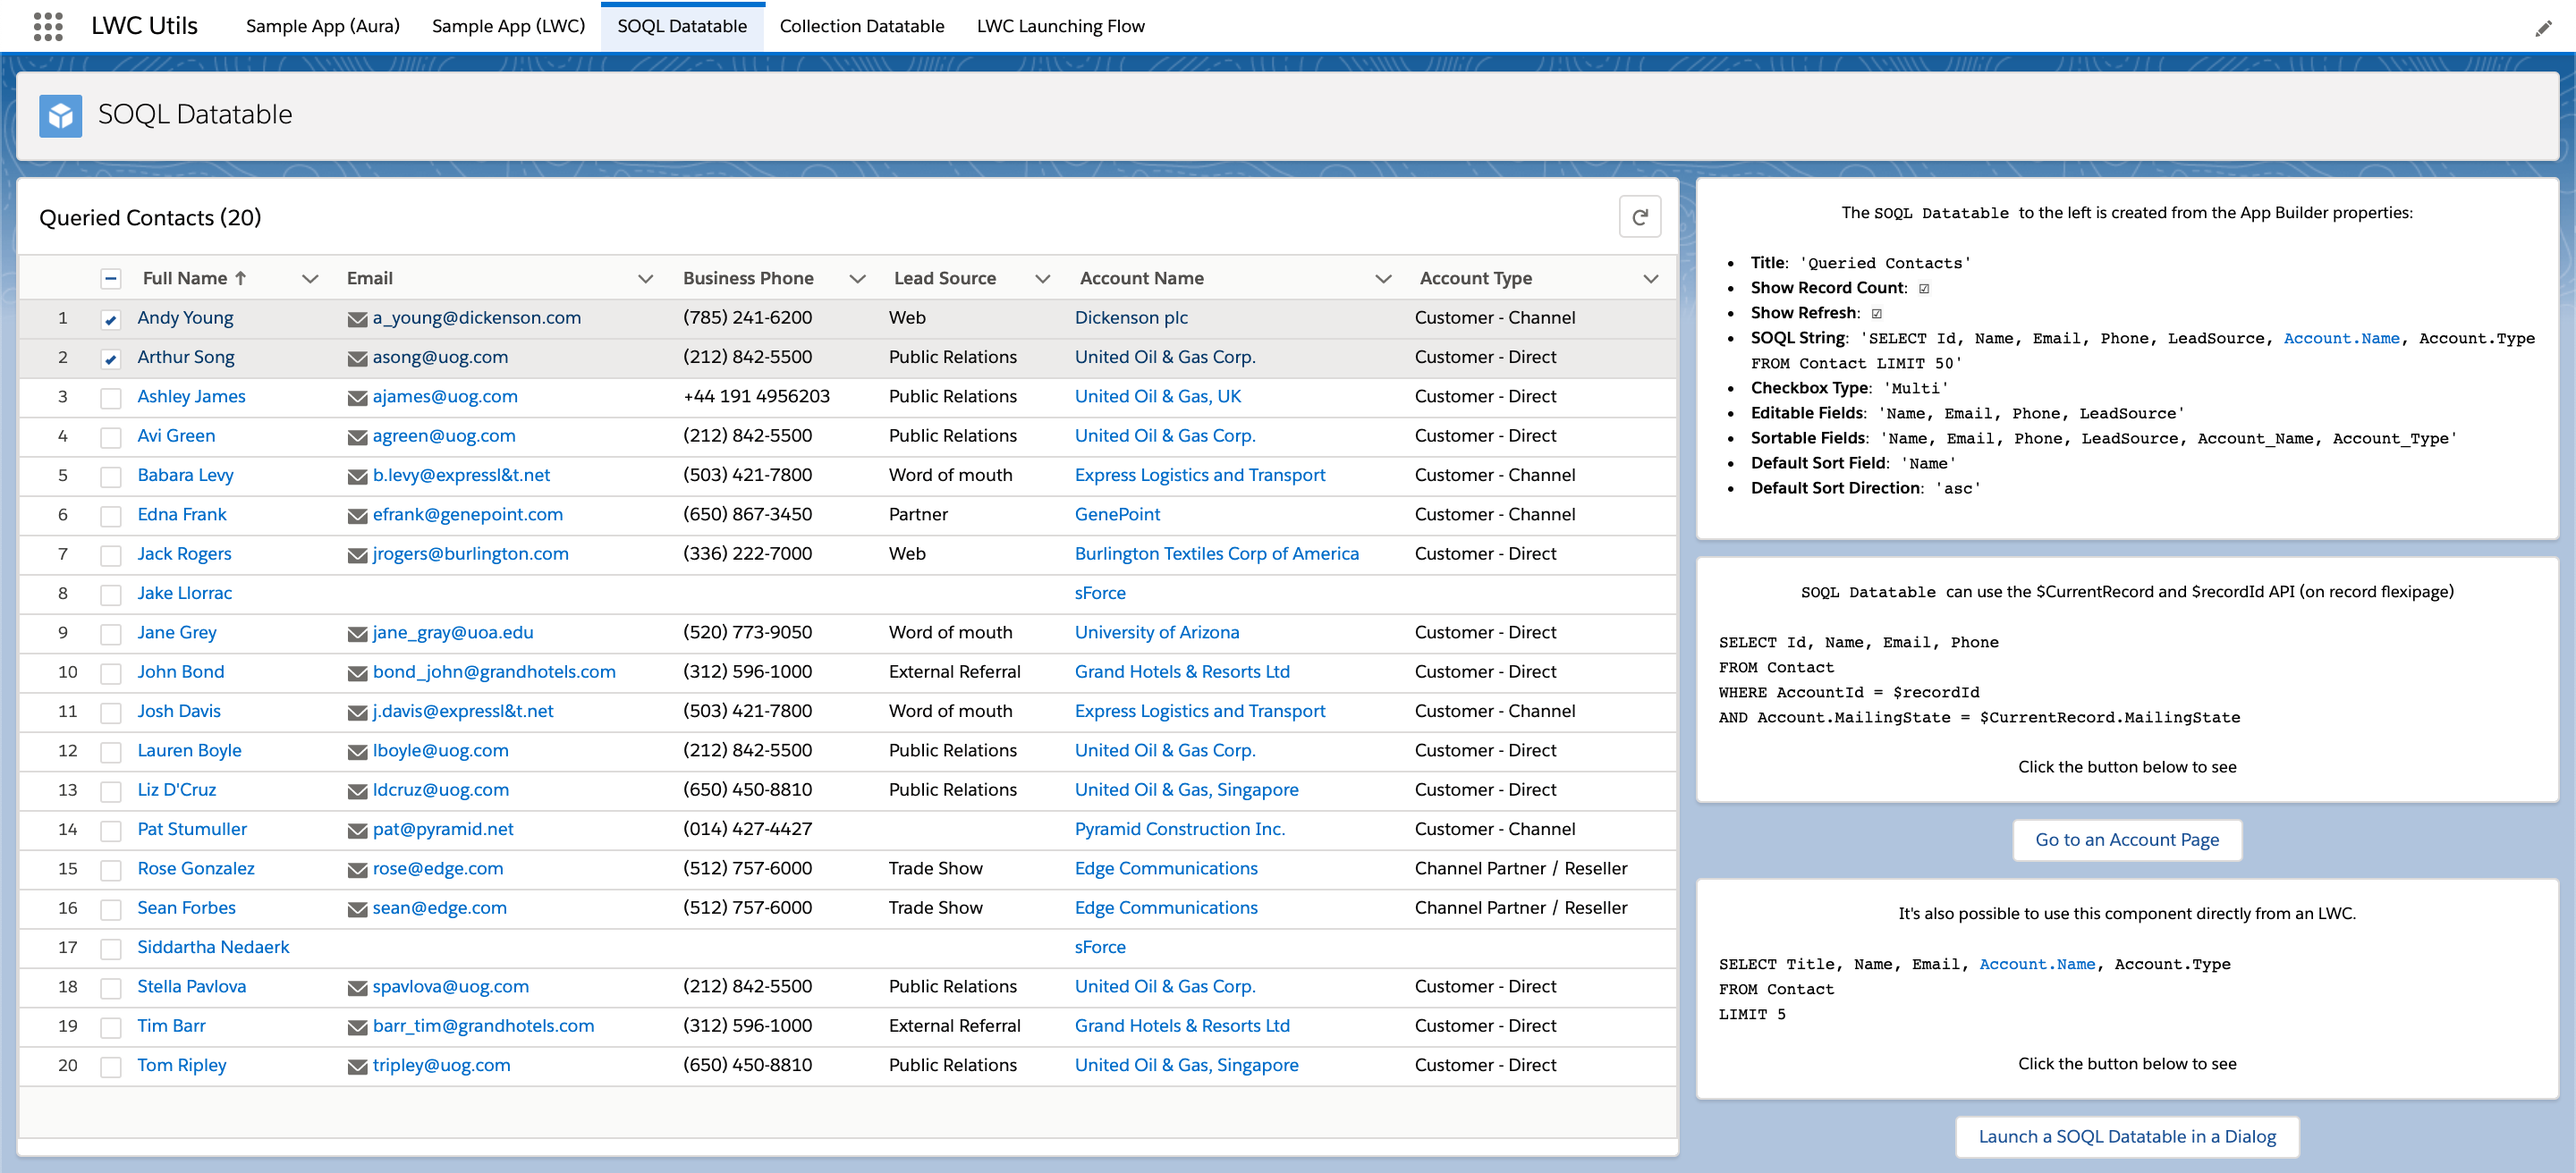
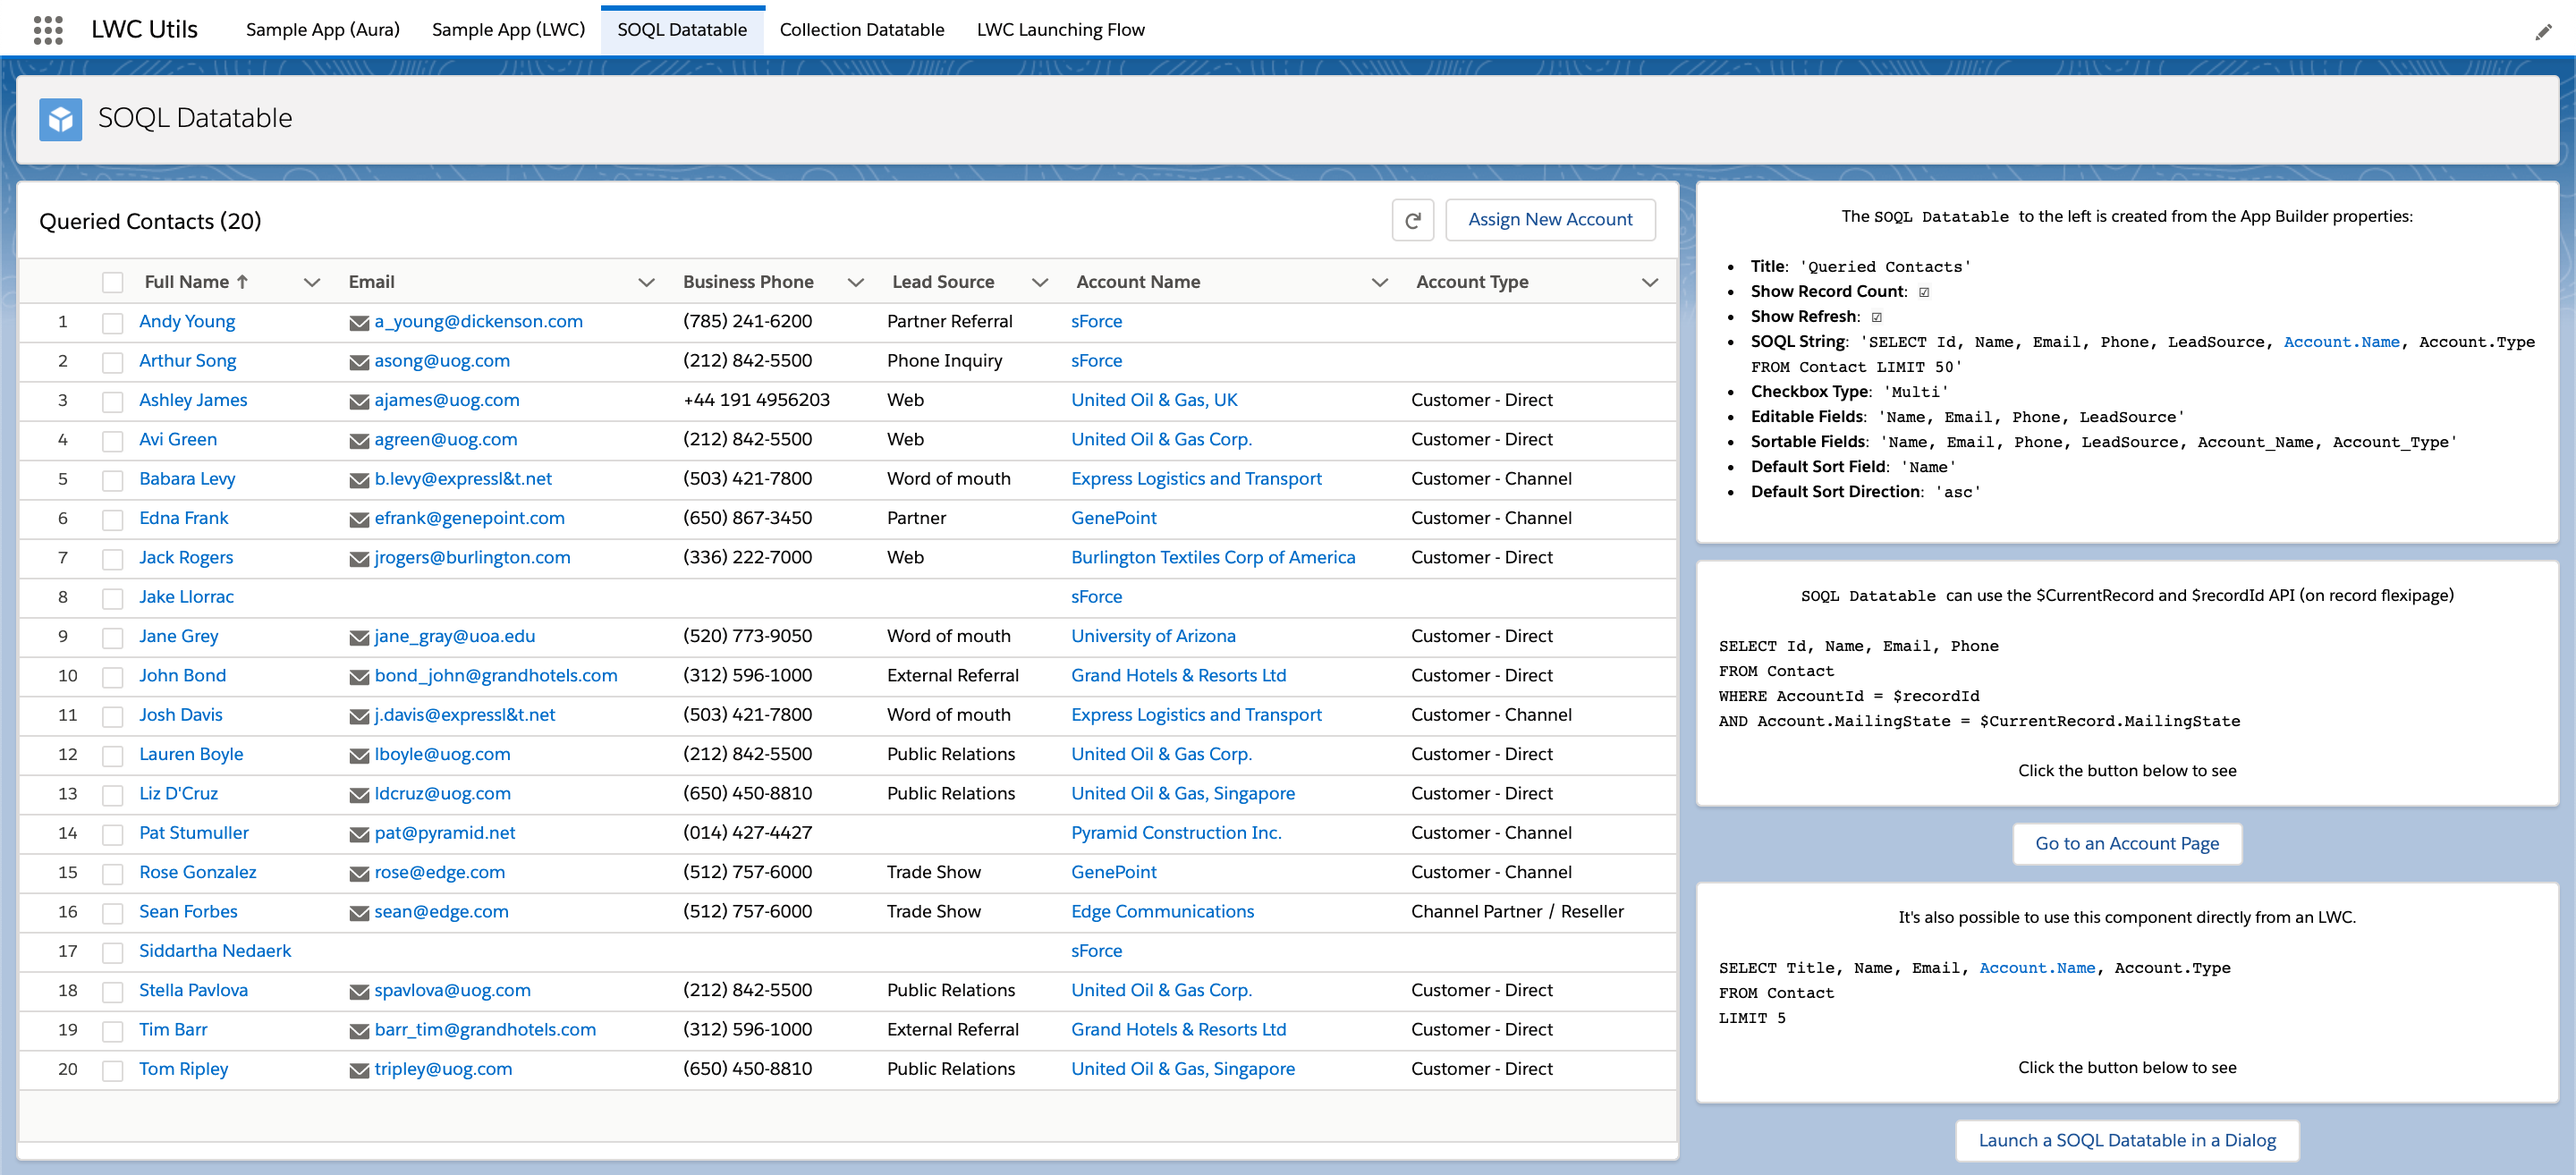
Update README

diff --git a/README.md b/README.md
@@ -41,15 +41,15 @@ git clone https://github.com/tsalb/lwc-utils
 
 | Component Name | Description | Component Type |
 |-|-|-|
-| `messageService`<br><br>[Example](#messageService)<br>[Spec](#messageService-Specification)<br>[Code](./force-app/main/default/lwc/messageService/messageService.js#L41) | Use one API to communicate **within** or **across** both Aura and LWC technologies.<br><br>Use this component instead of manually publishing / subscribing to `Lightning Message Service` (LMS).<br><br>Provides a psuedo-namespacing property called `boundary` which can separate subscribers by string, `recordId` etc.<br><br>Subscribers can choose to listen to any event by just enabling event handling like:<br><br>LWC: `<c-messageService onmycoolevent={handleCoolEvent}>`<br><br>Aura: `<c:messageService onmycoolevent="{! c.handleCoolEvent }">` | LWC:<br>`Service` |
-| `DialogService`<br><br>[Example](#DialogService)<br>[Spec](#DialogService-Specification)<br>[Code](./force-app/main/default/aura/DialogService) | Provides access to `lightning:overlayLibrary` to create dialogs (modals) via LMS.<br><br>Both Aura and LWCs can be created dynamically and injected as the dialog body.<br><br>Both Aura's public `attributes` and LWC's `@api` properties can be passed in. | Aura:<br>`Service` |
-| `MessageServiceHandler`<br><br>[Example](#MessageServiceHandler)<br>[Spec](#MessageServiceHandler-Specification)<br>[Code](./force-app/main/default/aura/MessageServiceHandler) | Utility bar (empty label) component wrapping `messageService`.<br><br>Provides universal access to `DialogService` by handling the `opendialog` LMS event. | Aura:<br>`Service`, `Utility Bar` |
+| `messageService`<br><br>[Example](#messageService)<br>[Code](./force-app/main/default/lwc/messageService/messageService.js#L41) | Use one API to communicate **within** or **across** both Aura and LWC technologies.<br><br>Use this component instead of manually publishing / subscribing to `Lightning Message Service` (LMS).<br><br>Provides a psuedo-namespacing property called `boundary` which can separate subscribers by string, `recordId` etc.<br><br>Subscribers can choose to listen to any event by just enabling event handling like:<br><br>LWC: ``<br><br>Aura: `` | LWC:<br>`Service` |
+| `DialogService`<br><br>[Example](#DialogService)<br>[Code](./force-app/main/default/aura/DialogService) | Provides access to `lightning:overlayLibrary` to create dialogs (modals) via LMS.<br><br>Both Aura and LWCs can be created dynamically and injected as the dialog body.<br><br>Both Aura's public `attributes` and LWC's `@api` properties can be passed in. | Aura:<br>`Service` |
+| `MessageServiceHandler`<br><br>[Example](#MessageServiceHandler)<br>[Code](./force-app/main/default/aura/MessageServiceHandler) | Utility bar (empty label) component wrapping `messageService`.<br><br>Provides universal access to `DialogService` by handling the `opendialog` LMS event. | Aura:<br>`Service`, `Utility Bar`, `Flexipage` |
 | `EventFooter`<br><br>[Code](./force-app/main/default/aura/EventFooter) | Dynamic footer for lwc dialogs.<br><br>Contains an instance of `messageService` listening for the `closedialog` LMS Event.<br><br>Unfortunately, `component.getReference()` does not work on LWCs. Write your own action button in the dialog body. | Aura:<br>`UI` |
 | `ModalFooter`<br><br>[Code](./force-app/main/default/aura/ModalFooter) | Dynamic footer for aura dialogs.<br><br>Connects a primary action on the target dialog body to the footer's main action via `component.getReference()`<br><br>Enables writing functions directly on the dialog body and `DialogService.modal()` will connect it to a primary action. | Aura:<br>`UI` |
-| `FlowWrapper`<br><br>[Example](#FlowWrapper)<br>[Spec](#FlowWrapper-Specification)<br>[Code](./force-app/main/default/aura/FlowWrapper) | Enables `messageService` to create flows inside a dialog body dynamically.<br><br>Can be used with `dialogAutoCloser` (LWC flow component) to automatically close a dialog launched by this component.<br><br>See [`flowWizardLauncherExample`](./force-app/main/default/lwc/flowWizardLauncherExample/flowWizardLauncherExample.js#L19) | Aura:<br>`Service` |
-| `dialogAutoCloser`<br><br>[Example](#dialogAutoCloser)<br>[Spec](#dialogAutoCloser-Specification)<br>[Code](./force-app/main/default/lwc/dialogAutoCloser) | Contains a progress bar and timer message before automatically closing a `DialogService` dialog with the `closerfooter` LMS event | LWC:<br>`Service`, `Flow` |
-| `soqlDatatable`<br><br>[Example](#soqlDatatable)<br>[Spec](#soqlDatatable-Specification)<br>[Code](./force-app/main/default/lwc/soqlDatatable) | // TODO | LWC:<br>`UI`, `App`, `Record`, `Flow` |
-| `collectionDatatable`<br><br>[Example](#collectionDatatable)<br>[Spec](#collectionDatatable-Specification)<br>[Code](./force-app/main/default/lwc/collectionDatatable) | // TODO | LWC:<br>`UI`, `Flow` |
+| `FlowWrapper`<br><br>[Example](#FlowWrapper)<br>[Code](./force-app/main/default/aura/FlowWrapper) | Enables `messageService` to create flows inside a dialog body dynamically.<br><br>Can be used with `dialogAutoCloser` (LWC flow component) to automatically close a dialog launched by this component.<br><br>See [`flowWizardLauncherExample`](./force-app/main/default/lwc/flowWizardLauncherExample/flowWizardLauncherExample.js#L19) | Aura:<br>`Service` |
+| `dialogAutoCloser`<br><br>[Example](#dialogAutoCloser)<br>[Code](./force-app/main/default/lwc/dialogAutoCloser) | Contains a progress bar and timer message before automatically closing a `DialogService` dialog with the `closerfooter` LMS event | LWC:<br>`Service`, `Flow` |
+| `soqlDatatable`<br><br>[Example](#soqlDatatable)<br>[Code](./force-app/main/default/lwc/soqlDatatable) | // TODO | LWC:<br>`UI`, `App`, `Record`, `Flow` |
+| `collectionDatatable`<br><br>[Example](#collectionDatatable)<br>[Code](./force-app/main/default/lwc/collectionDatatable) | // TODO | LWC:<br>`UI`, `Flow` |
 
 ## messageService
 
@@ -127,7 +127,9 @@ const dialogServicePayload = {
 this._messageService.dialogService(dialogServicePayload);
 ```
 
-#### messageService Specification
+<details>
+    <summary>messageService Specification</summary>
+
 
 **Attributes**
 
@@ -147,6 +149,7 @@ this._messageService.dialogService(dialogServicePayload);
 | notifySuccess | (`title`, `message` = null) | Convenience function for `ShowToastEvent` |
 | notifyInfo | (`title`, `message` = null) | Convenience function for `ShowToastEvent` |
 | notifySingleError | (`title`, `error` = '') | Convenience function for `ShowToastEvent`.<br>`error` object can be passed directly in, it will be reduced/parsed by `c-utils.reduceError`. |
+</details>
 
 ## DialogService
 
@@ -156,7 +159,9 @@ Primarily used by `messageService` for message publishing, `MessageServiceHandle
 
 It is not recommended to use this component directly.
 
-#### DialogService Specification
+<details>
+    <summary>DialogService Specification</summary>
+
 
 **Attributes**
 
@@ -177,6 +182,7 @@ For that reason, it is recommended to use `messageService` / `MessageServiceHand
 | modalLarge | (<br>  `auraId`,<br>  `headerLabel`,<br>  `body`,<br>  `bodyParams`,<br>  `mainActionReference`,<br>  `mainActionLabel`,<br>  `callback`,<br>  `isLargeModal = true`<br>) | Compatible with Aura dialog bodies.<br><br>Same as `modal`, with wider dialog box using `slds-modal_large` |
 | bodyModal | (<br>  `auraId`,<br>  `headerLabel`,<br>  `body`,<br>  `bodyParams`,<br>  `callback`<br>) | Compatible with LWC dialog bodies.<br><br>Same as `modal` except without connectivity to a `mainAction` via `component.getReference` which doesn't work on LWCs, even with `@api` functions.<br><br>Instead, a slim footer called `EventFooter` is created which is subscribing to the `dialogclose` event for closing the dialog.<br><br>Write your own `Cancel` and `Primary Action` button on the dialog body that is dynamically being created. |
 | bodyModalLarge | (<br>  `auraId`,<br>  `headerLabel`,<br>  `body`,<br>  `bodyParams`,<br>  `callback`,<br>  `isLargeModal = true`<br>) | Compatible with LWC dialog bodies.<br><br>Same as `bodyModal`, with wider dialog box using `slds-modal_large` |
+</details>
 
 ## MessageServiceHandler
 
@@ -206,7 +212,9 @@ This component is very simple which just listens and delegates to `DialogService
 </aura:component>
 ```
 
-#### MessageServiceHandler Specification
+<details>
+    <summary>MessageServiceHandler Specification</summary>
+
 
 **Attributes**
 
@@ -215,6 +223,8 @@ None
 **Public Methods**
 
 None
+
+</details>
 
 ## FlowWrapper
 
@@ -234,7 +244,9 @@ So then, the component itself is very simple.
 </aura:component>
 ```
 
-#### FlowWrapper Specification
+<details>
+    <summary>FlowWrapper Specification</summary>
+
 
 **Attributes**
 
@@ -246,6 +258,8 @@ So then, the component itself is very simple.
 **Public Methods**
 
 None
+
+</details>
 
 ## dialogAutoCloser
 
@@ -281,7 +295,9 @@ A simple component that counts down and auto closes a dialog with the `closedial
     }
 ```
 
-#### dialogAutoCloser Specification
+<details>
+    <summary>dialogAutoCloser Specification</summary>
+
 
 **Attributes**
 
@@ -293,6 +309,7 @@ A simple component that counts down and auto closes a dialog with the `closedial
 **Public Methods**
 
 None
+</details>
 
 ## soqlDatatable
 
@@ -310,7 +327,12 @@ Clicking Edit Page on the App Page, you can see that there are only a handful of
 
 ![soql-datatable-app-builder](/readme-images/soql-datatable-app-builder.png?raw=true)
 
-## soqlDatatable - Record Binding in SOQL
+## soqlDatatable - Features and Examples
+
+<!-- Psuedo-spoiler tags can be formed like this. Line break is required! -->
+<details>
+    <summary>Record Binding in SOQL</summary>
+
 
 This comes with an API to grab data from the current record context and merge it into the SOQL String with the `$CurrentRecord` and `$recordId` syntax as follows:
 
@@ -331,8 +353,11 @@ AND MailingState = $CurrentRecord.BillingState
 It uses Lightning Data Service to `getRecord` and resolve the record values before merging them into the SOQL String. 
 
 All data types that can be SOQL-ed are supported for `$CurrentRecord`.
+</details>
 
-## soqlDatatable - Inline editing
+<details>
+    <summary>Inline Editing</summary>
+
 
 Define which fields can be editable in a comma separated list in the `Editable Fields` design attribute. For data types that are supported in the vanilla `lightning-datatable`, such as `date`, `text`, `number`, those are relied on as heavily as possible.
 
@@ -358,17 +383,35 @@ The following are not currently supported, but is on the roadmap:
 - Keyboard navigation
 - `customLookup` data type
 
-#### soqlDatatable Specification
+</details>
 
-**Attributes**
+<details>
+    <summary>Configurable Custom Actions</summary>
 
-`// TODO`
 
-**Public Methods**
+#### Flow Action
 
-`// TODO`
+This component currently has one button in the top right that is reserved for a configurable Flow action.
 
-## SOQL Datatable - Dynamic Creation via MessageService & DialogService
+The example in the `SOQL Datatable` tab uses the following design attributes:
+
+- **Flow Action Dev Name**: `SOQL_Datatable_Flow_Action_Update_Contacts_with_New_Account`
+- **Flow Action Button Label**: `Assign New Account`
+- **Flow Size**: `Normal`
+
+<p align="center">
+    <img src="./readme-images/soql-datatable-flow-action.gif" width="900">
+</p>
+
+<p align="center">
+    <img src="./readme-images/soql-datatable-new-account-flow.png" width="320">
+</p>
+
+</details>
+
+<details>
+    <summary>Dynamic Creation via MessageService & DialogService</summary>
+
 
 Dynamically create a `soqlDatatable` when clicking the `Launch a SOQL Datatable in a Dialog` button.
 
@@ -417,8 +460,11 @@ handleOpenDialog() {
 ```
 
 As you can see, it's possible to parameterize a payload back to Aura's `$A.createComponent` API to instantiate a public properties against an LWC.
+</details>
 
-## SOQL Datatable - Display a Selection to Collection Datatable in Flow
+<details>
+    <summary>Display a Selection to Collection Datatable in Flow</summary>
+
 
 This Screen Flow uses the ability for `SOQL Datatable` to output a `List<SObject>` directly in Flow.
 
@@ -430,6 +476,20 @@ Another component called `Collection Datatable` is able to display any Flow `Rec
 <p align="center">
     <img src="./readme-images/soql-datatable-to-collection-datatable.gif" width="600">
 </p>
+</details>
+
+<details>
+    <summary>soqlDatatable Specification</summary>
+
+
+**Attributes**
+
+`// TODO`
+
+**Public Methods**
+
+`// TODO`
+</details>
 
 ## collectionDatatable
 
